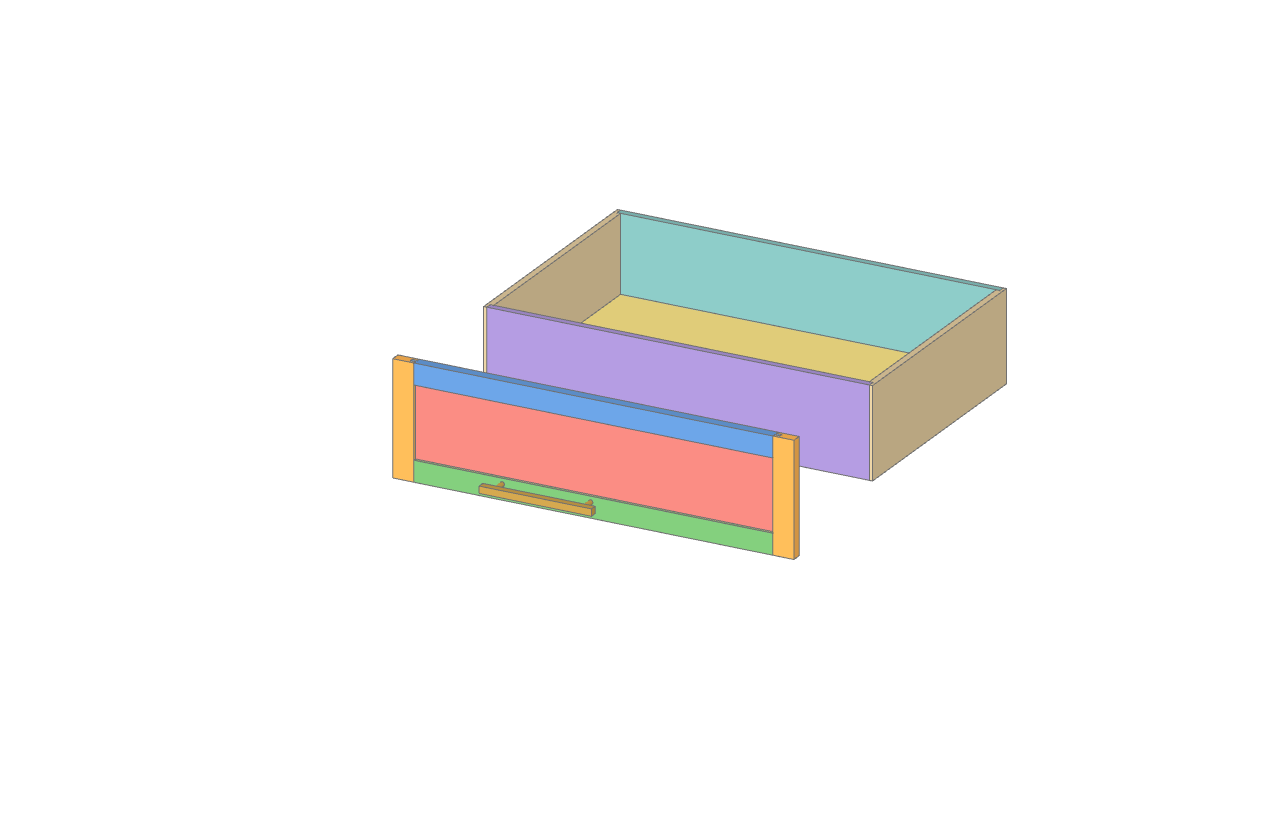
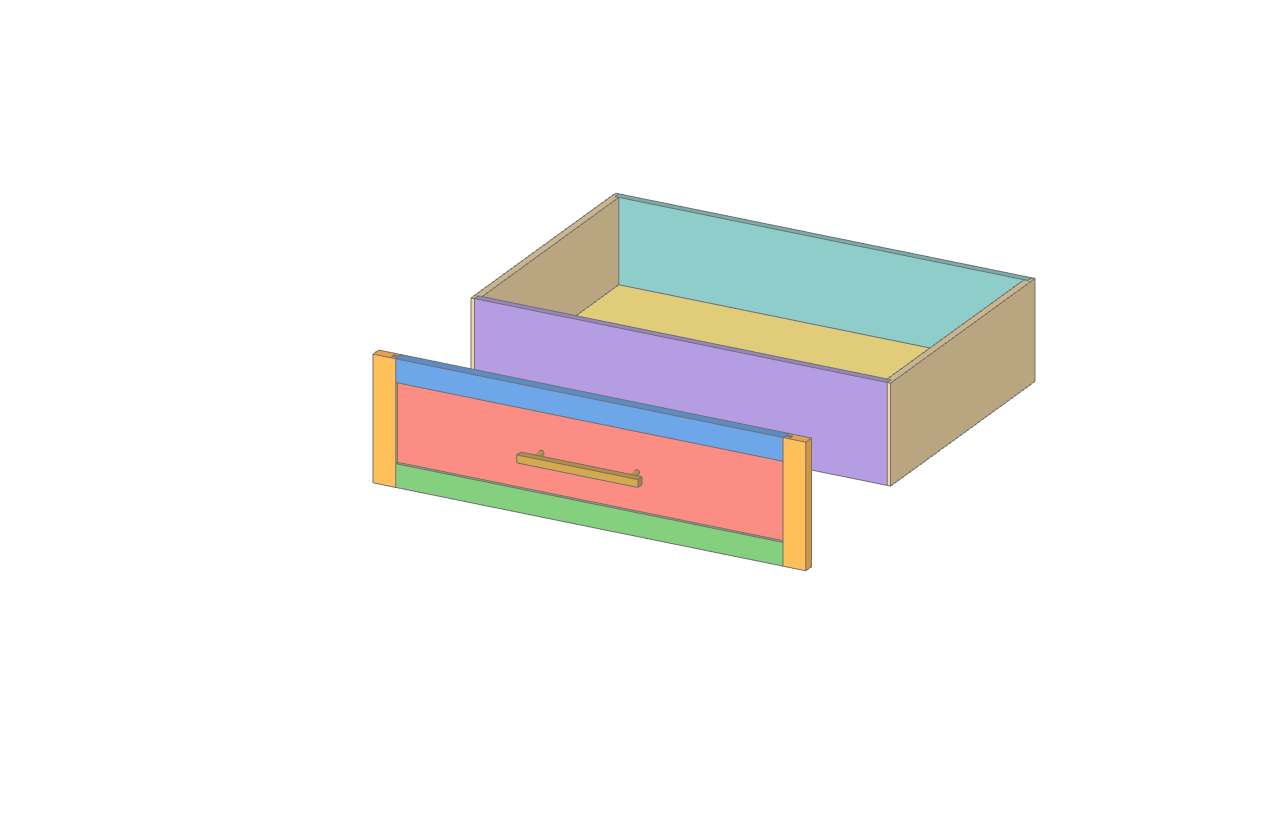
Freestanding-bench: drawer page step 11 shows the pull on the center of the front (Brian 2026-11-25: "handle goes in the middle")

Changed region(s): [[0.2799, 0.2185, 0.8087, 0.6867]]

diff --git a/projects/Freestanding-bench/drawer_construction.py b/projects/Freestanding-bench/drawer_construction.py
@@ -278,7 +278,7 @@ def shots():
     go("step-06", {}, cam_r, 1.6, keys=BOX)
     keys = BOX + FRONT + ("pull_l",)
     t7 = (tb[0], (BOX_Y1 + FACE_Y1) / 2 + 100, tb[2])
-    go("step-07", {**{n: (0, 260, 0) for n in FRONT}, "pull_l": (0, 420, 0)},
+    go("step-07", {**{n: (0, 260, 0) for n in FRONT}, "pull_l": (0, 260, 0)},
        ((t7[0] - 900, t7[1] + 1700, t7[2] + 800), t7), 1.2, keys=keys)
     go("step-08", {}, ((tb[0] - 900, tb[1] + 1700, tb[2] + 800), (tb[0], tb[1] + 100, tb[2])), 1.35, keys=keys)
 
